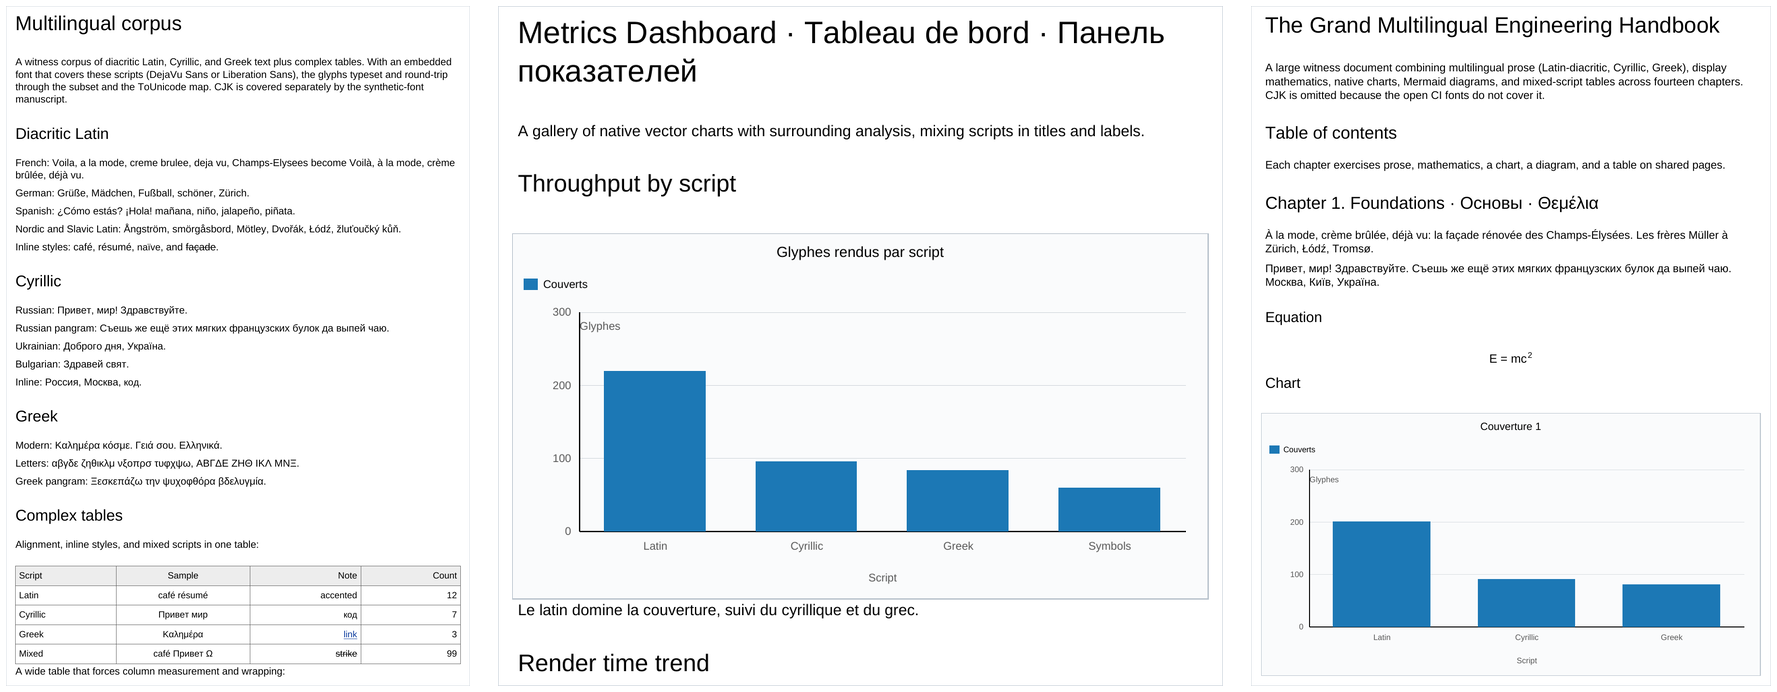
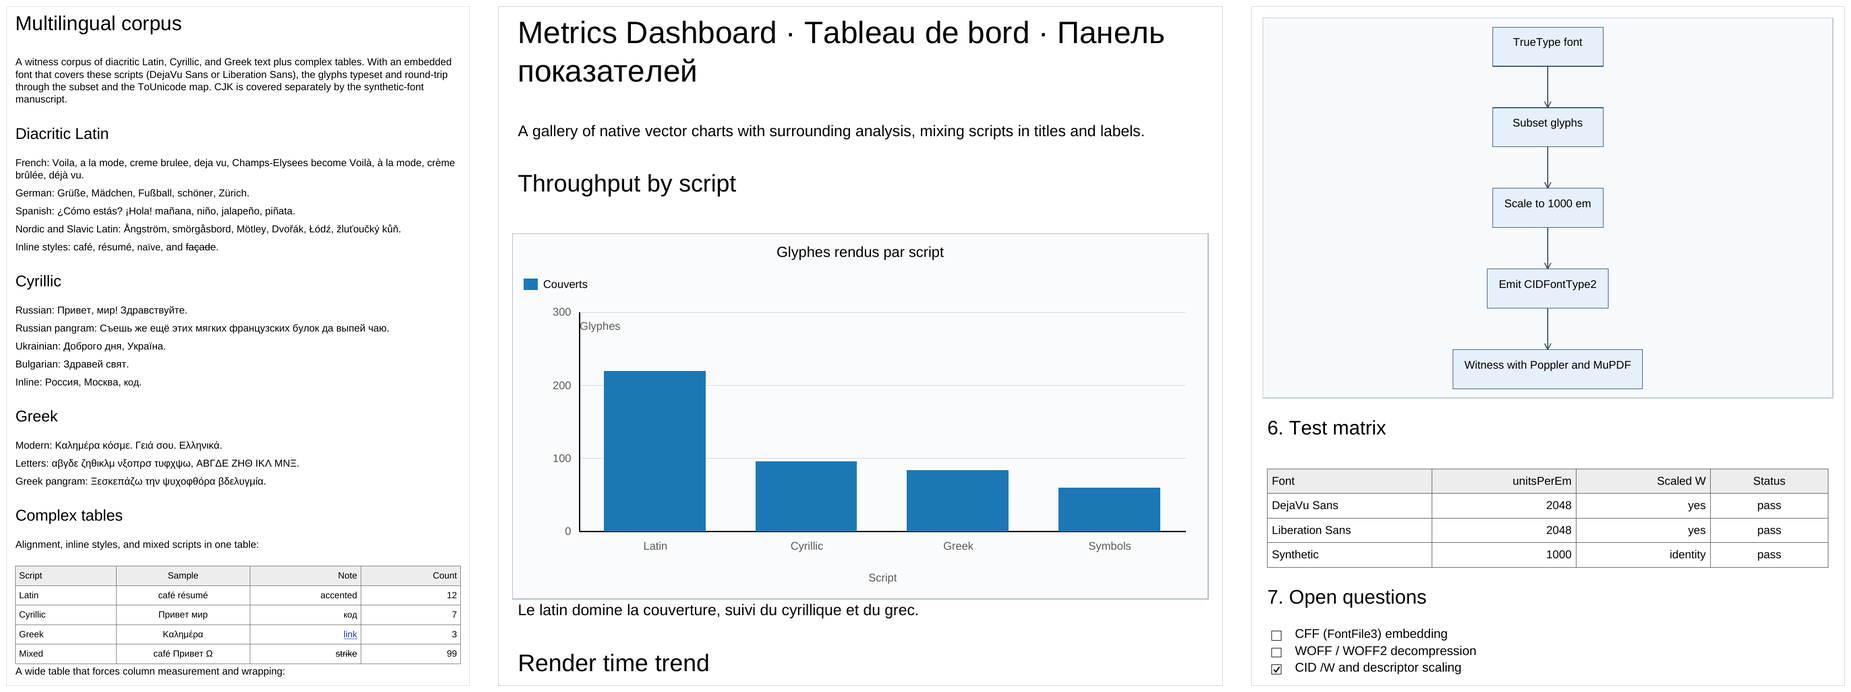
docs(readme): swap the redundant chart page for a Mermaid diagram in the gallery and hero
The charts-dashboard and handbook pages both led with the same bar chart.
Replace the handbook image with the engineering-RFC Mermaid flowchart page
(diagram + table + task list) for variety, and rebuild the hero banner as
text + chart + diagram.

diff --git a/README.md b/README.md
@@ -37,8 +37,8 @@ glyphs. Each page is validated by a Poppler + MuPDF witness battery.
   </tr>
   <tr>
     <td valign="top">
-      <img src="Docs/images/handbook.png" alt="Mixed content page with chart and math" width="100%"><br>
-      <sub><b>Mixed content</b>: prose, TeX math, charts, Mermaid diagrams, and tables on shared pages.</sub>
+      <img src="Docs/images/diagram.png" alt="Mermaid flowchart rendered to PDF" width="100%"><br>
+      <sub><b>Diagrams</b>: a portable Mermaid flowchart subset drawn with native PDF shapes and text, beside a table and a task list.</sub>
     </td>
     <td valign="top">
       <img src="Docs/images/code.png" alt="Code blocks and tables" width="100%"><br>